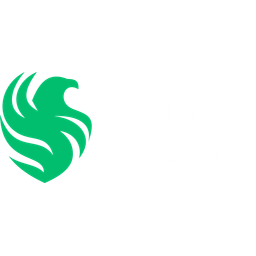
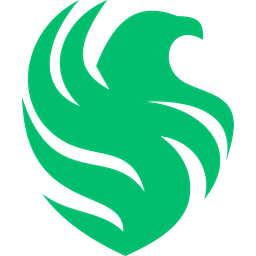
Loqo seçimi: ikon variantı, amma köhnə loqo yox
Falcons, FURIA və Legacy indi təmiz ikondur — əvvəl 32px avatarda yazı-loqonun
hərfləri bir neçə piksel qalırdı.

Sərhəd ölçmə ilə tapıldı. Fayl adından "full" çıxarmaq təhlükəsizdir: eyni
yükləmənin ikon variantıdır. İLİ çıxarmaq isə deyil — «Team Vitality allmode»
mövcuddur, gözəl kvadratdır və onların ƏVVƏLKİ, qılınclı gerbidir. G2-də də
eyni. Köhnə loqo geniş loqodan pisdir, ona görə il qalır.

G2 və Vitality bu qaydaya görə toxunulmadan qaldı — düzgün nəticədir.

diff --git a/scripts/fetch-team-logos.ts b/scripts/fetch-team-logos.ts
@@ -95,6 +95,46 @@ function logoFileFrom(wikitext: string): string | null {
   return usable(values.get("imagedark")) ?? usable(values.get("image")) ?? null;
 }
 
+const MODES = ["allmode", "darkmode", "lightmode"];
+
+/**
+ * Other filenames that plausibly hold the same logo in a squarer crop.
+ *
+ * Two rewrites, and the boundary between them is the whole point.
+ *
+ * Dropping "full" is safe. Liquipedia uses it for the full lockup — icon plus
+ * wordmark — and the file without it is the same artwork's icon, from the same
+ * upload. Swapping the mode suffix is safe for the same reason.
+ *
+ * Dropping the *year* is not, and this was measured rather than assumed. The
+ * infobox gives `Team Vitality 2026 full darkmode.png`; `Team Vitality
+ * allmode.png` also exists, is nicely square, and is their previous crest with
+ * the crossed swords. Same for `G2 Esports allmode.png`. A stale logo is worse
+ * than a wide one, so the year stays.
+ *
+ * lightmode is generated as a candidate only when it was already the source:
+ * the site is dark, and a logo drawn for white paper disappears on it.
+ */
+function variantsOf(file: string): string[] {
+  const dot = file.lastIndexOf(".");
+  const stem = dot < 0 ? file : file.slice(0, dot);
+  const ext = dot < 0 ? ".png" : file.slice(dot);
+
+  const stems = new Set([stem]);
+  if (stem.includes(" full ")) stems.add(stem.replace(" full ", " "));
+  if (stem.endsWith(" full")) stems.add(stem.slice(0, -" full".length));
+
+  const out = new Set<string>();
+  for (const s of stems) {
+    out.add(s + ext);
+    const mode = MODES.find((m) => s.endsWith(` ${m}`));
+    if (!mode) continue;
+    const head = s.slice(0, s.length - mode.length);
+    for (const other of ["allmode", "darkmode"]) out.add(head + other + ext);
+  }
+  return [...out];
+}
+
 /**
  * `wikiTitle` is set only where our name is not the Liquipedia title, and each
  * one was checked by hand. Guessing is not an option here: "Spirit" and
@@ -147,28 +187,23 @@ async function main() {
   }
 
   // 2. Fayl adlarından real URL — bir sorğuda hamısı.
-  //
-  // Hər komanda üçün iki namizəd: infoboksdakı ad və ondan "full" çıxarılmış
-  // variant. Liquipedia-da "full" tam kilidi (ikon + yazı) bildirir, ikonun
-  // özü isə adsız faylda olur. Hər ikisi mövcud olmur — G2 və Vitality üçün
-  // yalnız "full" var, 100 Thieves və FaZe üçün hər ikisi.
   const candidates = new Set<string>();
-  for (const f of found) {
-    candidates.add(`File:${f.file}`);
-    const square = f.file.replace(" full ", " ");
-    if (square !== f.file) candidates.add(`File:${square}`);
-  }
+  for (const f of found) for (const c of variantsOf(f.file)) candidates.add(`File:${c}`);
 
-  const info = await api({
-    action: "query",
-    prop: "imageinfo",
-    iiprop: "url|size|mime|dimensions",
-    titles: [...candidates].join("|"),
-  });
+  // 50 başlıq bir sorğunun həddidir.
   const byTitle = new Map<string, { url: string; size: number; width: number; height: number }>();
-  for (const p of info?.query?.pages ?? []) {
-    const ii = p?.imageinfo?.[0];
-    if (ii?.url) byTitle.set(p.title, { url: ii.url, size: ii.size, width: ii.width, height: ii.height });
+  const all = [...candidates];
+  for (let i = 0; i < all.length; i += 50) {
+    const info = await api({
+      action: "query",
+      prop: "imageinfo",
+      iiprop: "url|size|mime|dimensions",
+      titles: all.slice(i, i + 50).join("|"),
+    });
+    for (const p of info?.query?.pages ?? []) {
+      const ii = p?.imageinfo?.[0];
+      if (ii?.url) byTitle.set(p.title, { url: ii.url, size: ii.size, width: ii.width, height: ii.height });
+    }
   }
 
   /**
@@ -178,8 +213,8 @@ async function main() {
    */
   const urlByTitle = new Map<string, { url: string; size: number }>();
   for (const f of found) {
-    const options = [`File:${f.file}`, `File:${f.file.replace(" full ", " ")}`]
-      .map((t) => ({ title: t, hit: byTitle.get(t) }))
+    const options = variantsOf(f.file)
+      .map((c) => ({ title: `File:${c}`, hit: byTitle.get(`File:${c}`) }))
       .filter((o): o is { title: string; hit: NonNullable<ReturnType<typeof byTitle.get>> } => Boolean(o.hit));
     if (options.length === 0) continue;
     const best = options.sort(
